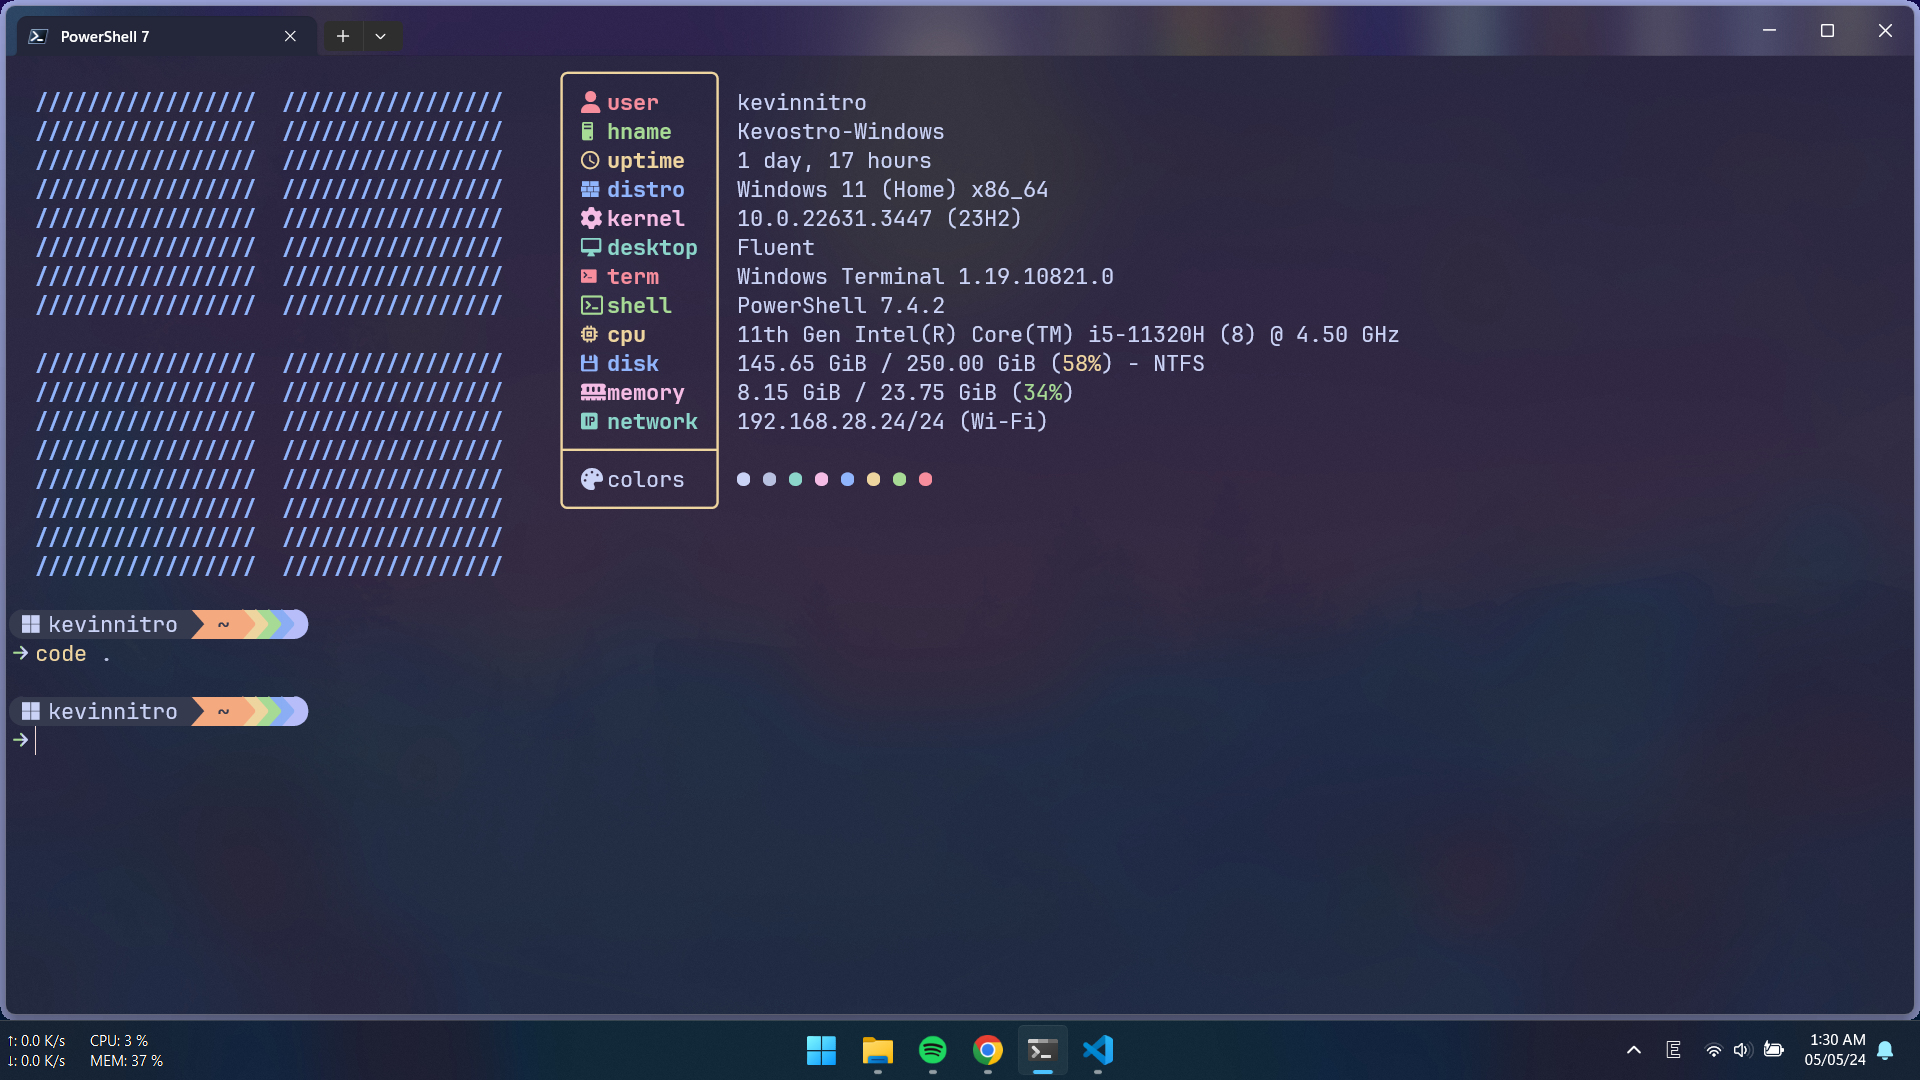
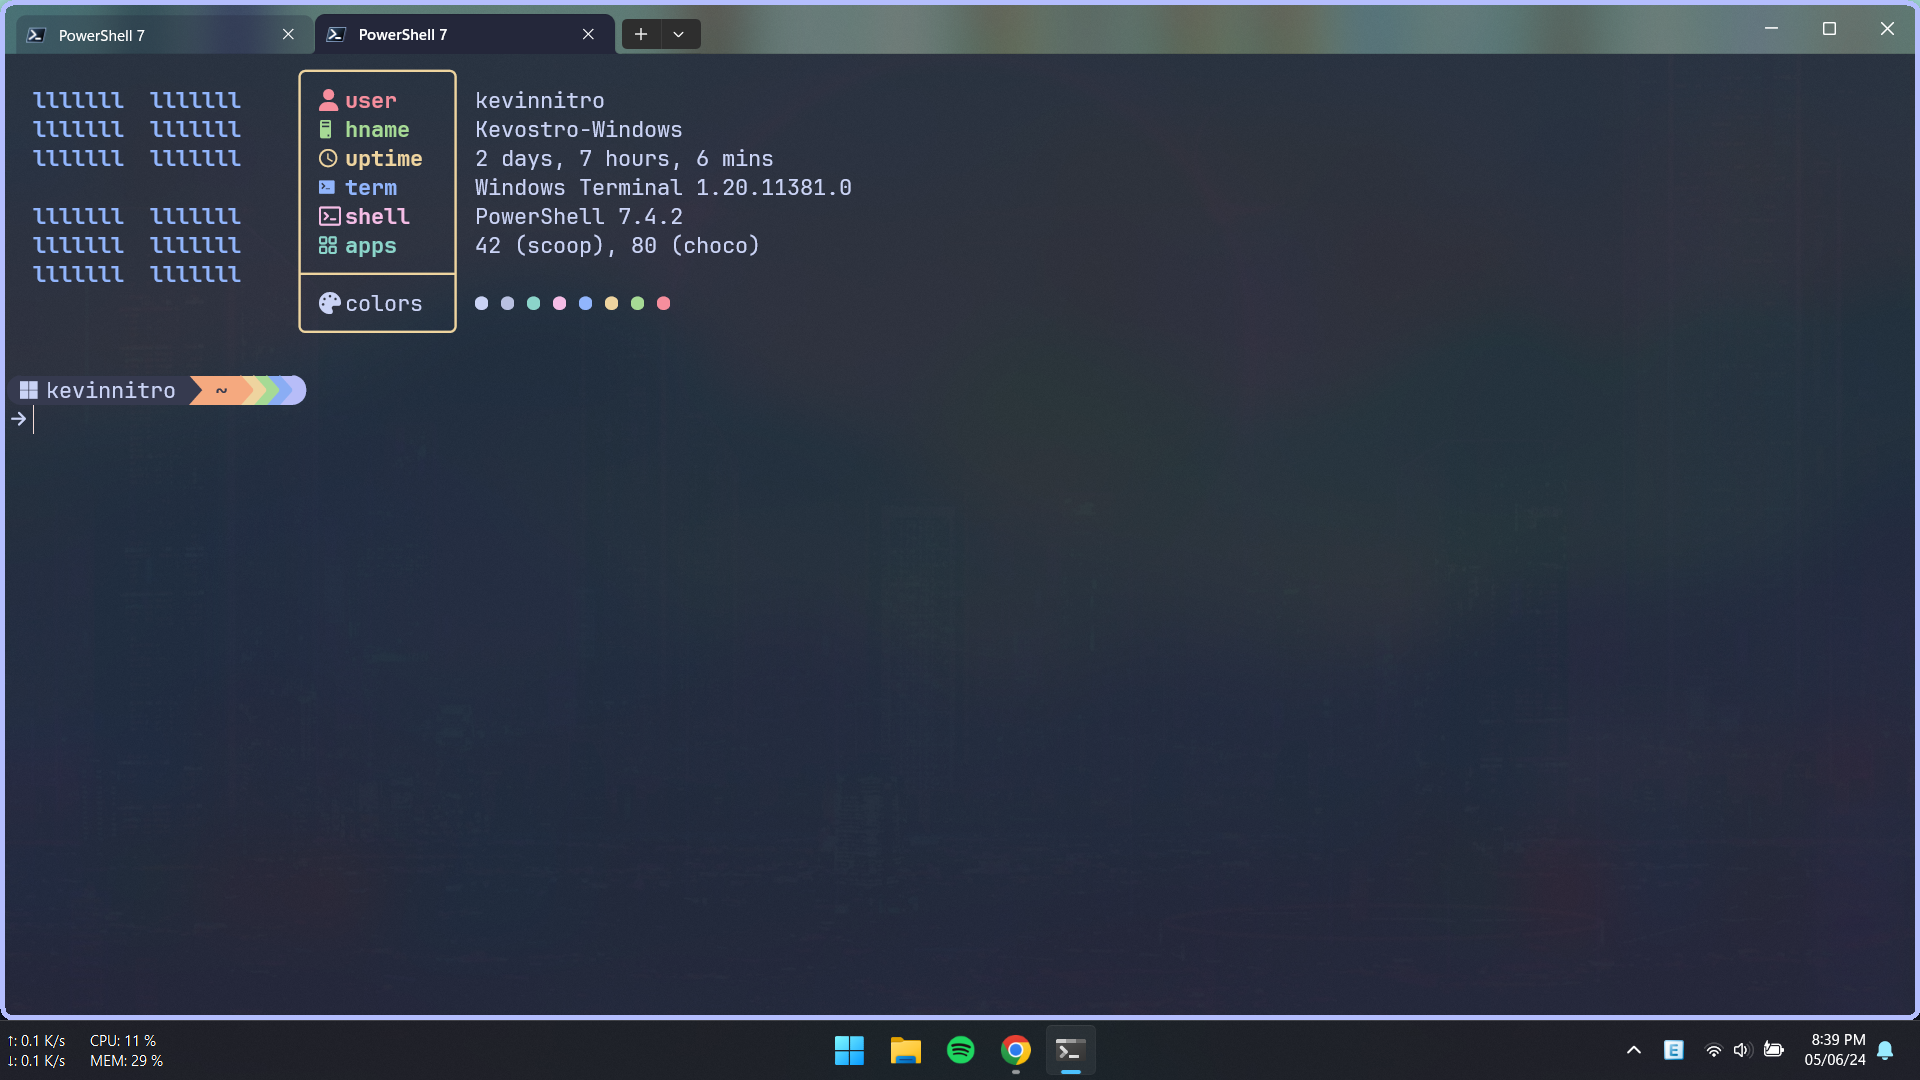
feat(README): update "find", "cd" showcases

Changed region(s): [[0.0, 0.0, 1.0, 0.7028], [0.0, 0.9167, 1.0, 1.0], [0.6875, 0.3056, 0.7188, 0.3361]]

diff --git a/README.md b/README.md
@@ -14,7 +14,7 @@
     - [Terminal](#terminal)
     - [Check Wifi Password](#check-wifi-password)
     - [App Manage](#app-manage)
-    - [Change directory schemes](#change-directory-schemes)
+    - [Find files / directories / file content](#find-files--directories--file-content)
     - [Neovim](#neovim)
   - [🪴 INSTALL](#-install)
     - [1⃣ Add SSH](#1⃣-add-ssh)
@@ -83,14 +83,26 @@
 
 ---
 
-### Change directory schemes
+### Find files / directories / file content
 
-|                                         |                                                   |
-| :-------------------------------------: | :-----------------------------------------------: |
-|  ![fzfcd](assets/images/cd-fzfcd.png)   |        ![rgcd](assets/images/cd-rgcd.png)         |
-| [fzf](https://github.com/junegunn/fzf/) | [ripgrep](https://github.com/BurntSushi/ripgrep/) |
-|   ![fdcd](assets/images/cd-fdcd.png)    |        ![lfcd](assets/images/cd-lfcd.png)         |
-|  [fd](https://github.com/sharkdp/fd/)   |       [lf](https://github.com/gokcehan/lf/)       |
+|     [fzf](https://github.com/junegunn/fzf/)      |             [fd](https://github.com/sharkdp/fd/)              |
+| :----------------------------------------------: | :-----------------------------------------------------------: |
+| ![fdg - find files](assets/images/find-file.png) | ![fdg - find directories](assets/images/find-directories.png) |
+
+| [ripgrep](https://github.com/BurntSushi/ripgrep) |          [fzf](https://github.com/junegunn/fzf/)           |
+| :----------------------------------------------: | :--------------------------------------------------------: |
+| ![rgg - ripgrep](assets/images/find-ripgrep.png) | ![rgg - ripgrep - fzf](assets/images/find-ripgrep_fzf.png) |
+
+![cd or neovim](assets/images/find-choice.png)
+
+> [!NOTE]
+>
+> These come from [fzf advanced integration](https://github.com/junegunn/fzf/blob/master/ADVANCED.md) but in Powershell
+>
+> The config is in [Documents/PowerShell/Scripts/kevinnitro/fzf.ps1](https://github.com/KevinNitroG/windows-dotfiles/blob/main/Documents/PowerShell/Scripts/kevinnitro/fzf.ps1)
+
+- Bonus: [yazi](https://github.com/sxyazi/yazi) and cd
+  ![yzcd](assets/images/cd-yazi.png)
 
 ---
 
